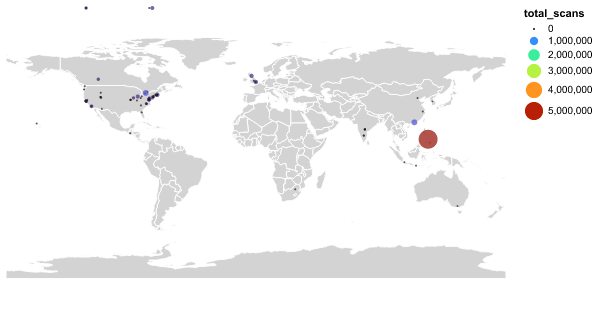
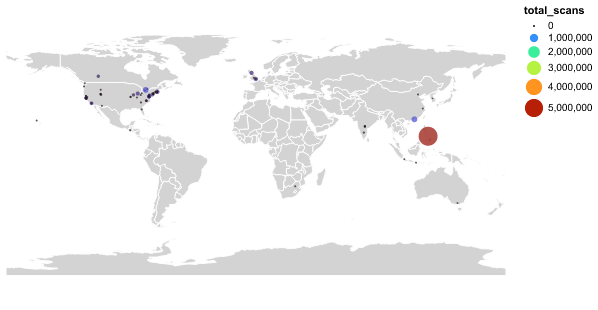
adding image!

diff --git a/debates_in_dh_chapter/chapter_visuals/center_map.html b/debates_in_dh_chapter/chapter_visuals/center_map.html
@@ -20,7 +20,7 @@
   <div id="vis"></div>
   <script>
     (function(vegaEmbed) {
-      var spec = {"config": {"view": {"continuousWidth": 300, "continuousHeight": 300}}, "layer": [{"data": {"url": "https://cdn.jsdelivr.net/npm/vega-datasets@v1.29.0/data/world-110m.json", "format": {"feature": "countries", "type": "topojson"}}, "mark": {"type": "geoshape", "fill": "lightgrey", "stroke": "white"}, "projection": {"type": "equirectangular"}}, {"data": {"name": "data-2dba9612deaa14531c6f77d914588e73"}, "mark": {"type": "circle"}, "encoding": {"color": {"field": "total_scans", "scale": {"scheme": "turbo"}, "type": "quantitative"}, "latitude": {"field": "lat", "type": "quantitative"}, "longitude": {"field": "long", "type": "quantitative"}, "size": {"field": "total_scans", "type": "quantitative"}, "tooltip": [{"field": "name", "type": "nominal"}]}}], "height": 300, "width": 500, "$schema": "https://vega.github.io/schema/vega-lite/v5.20.1.json", "datasets": {"data-2dba9612deaa14531c6f77d914588e73": [{"Unnamed: 0": 0, "name": "1 Dollar Scan", "total_scans": 20, "percent_of_total": "0.0002214984%", "lat": "37.27838889", "long": -121.9492601}, {"Unnamed: 0": 1, "name": "Allen County Public Library Geneaology Center", "total_scans": 214706, "percent_of_total": "2.3778514038%", "lat": "41.0771285", "long": -85.1432003}, {"Unnamed: 0": 2, "name": "American Museum of Natural History", "total_scans": 29, "percent_of_total": "0.0003211726%", "lat": "40.78130431", "long": -73.97404878}, {"Unnamed: 0": 3, "name": "American Numismatic Society", "total_scans": 15554, "percent_of_total": "0.1722592789%", "lat": "38.64984185", "long": -90.32951435}, {"Unnamed: 0": 4, "name": "American Printing House for the Blind", "total_scans": 2326, "percent_of_total": "0.0257602599%", "lat": "38.25759766", "long": -85.71422071}, {"Unnamed: 0": 5, "name": "Analysis and Policy Observatory (APO)", "total_scans": 41, "percent_of_total": "0.0004540716%", "lat": "-37.82242623", "long": 145.0393157}, {"Unnamed: 0": 6, "name": "BYU, Hawaii", "total_scans": 884, "percent_of_total": "0.0097902278%", "lat": "21.64181757", "long": -157.9265819}, {"Unnamed: 0": 7, "name": "BYU, Idaho Family History Library", "total_scans": 1655, "percent_of_total": "0.0183289898%", "lat": "43.81949648", "long": -111.7827966}, {"Unnamed: 0": 8, "name": "BYU, Provo", "total_scans": 40698, "percent_of_total": "0.4507270241%", "lat": "40.24883196", "long": -111.6492385}, {"Unnamed: 0": 9, "name": "BookScanUS", "total_scans": 42, "percent_of_total": "0.0004651466%", "lat": "32.23962014", "long": -110.9556127}, {"Unnamed: 0": 10, "name": "Boston Public Library", "total_scans": 256899, "percent_of_total": "2.8451354307%", "lat": "42.34936189", "long": -71.07819992}, {"Unnamed: 0": 11, "name": "British Library", "total_scans": 230566, "percent_of_total": "2.5534996077%", "lat": "51.53000987", "long": -0.1275571138}, {"Unnamed: 0": 12, "name": "Brown University", "total_scans": 19711, "percent_of_total": "0.2182977142%", "lat": "41.82567677", "long": -71.40513051}, {"Unnamed: 0": 14, "name": "California State Library", "total_scans": 1893, "percent_of_total": "0.0209648203%", "lat": "38.57589327", "long": -121.4962643}, {"Unnamed: 0": 15, "name": "Centre for Strategic and International Studies, Jakarta", "total_scans": 492, "percent_of_total": "0.0054488598%", "lat": "-6.177154589", "long": 106.8164464}, {"Unnamed: 0": 16, "name": "Church History Library", "total_scans": 15954, "percent_of_total": "0.1766892462%", "lat": "40.77200728", "long": -111.8906814}, {"Unnamed: 0": 17, "name": "Clatsop County Historical Society", "total_scans": 2171, "percent_of_total": "0.0240436476%", "lat": "46.1884006", "long": -123.8253618}, {"Unnamed: 0": 18, "name": "Clemson University", "total_scans": 10410, "percent_of_total": "0.1152898993%", "lat": "34.67661443", "long": -82.8364096}, {"Unnamed: 0": 19, "name": "Columbia University", "total_scans": 62910, "percent_of_total": "0.6967231089%", "lat": "40.80657713", "long": -73.96320572}, {"Unnamed: 0": 20, "name": "Datum Data Co. Ltd.", "total_scans": 482936, "percent_of_total": "5.3484767336%", "lat": "22.50635114", "long": 114.0501618}, {"Unnamed: 0": 21, "name": "Duke University", "total_scans": 21850, "percent_of_total": "0.2419869644%", "lat": "36.00294192", "long": -78.93834083}, {"Unnamed: 0": 22, "name": "Family Search Library", "total_scans": 803, "percent_of_total": "0.0088931594%", "lat": "40.77037084", "long": -111.8945972}, {"Unnamed: 0": 23, "name": "Georgetown University", "total_scans": 218, "percent_of_total": "0.0024143322%", "lat": "38.90659981", "long": -77.07223903}, {"Unnamed: 0": 24, "name": "Getty Research Institute", "total_scans": 195, "percent_of_total": "0.0021596091%", "lat": "34.0769306", "long": -118.4754969}, {"Unnamed: 0": 25, "name": "Getty Research Institute Valencia Warehouse", "total_scans": 24347, "percent_of_total": "0.2696410353%", "lat": "34.0769306", "long": -118.4754969}, {"Unnamed: 0": 26, "name": "Hamilton Public Library", "total_scans": 201, "percent_of_total": "0.0022260586%", "lat": "43.25893488", "long": -79.87052526}, {"Unnamed: 0": 27, "name": "Harvard", "total_scans": 944, "percent_of_total": "0.0104547229%", "lat": "42.37357506", "long": -71.11649816}, {"Unnamed: 0": 29, "name": "Hopewell Junction", "total_scans": 24, "percent_of_total": "0.0002657980%", "lat": "41.58494026", "long": -73.8016634}, {"Unnamed: 0": 30, "name": "Innodata Knowledge Services, Inc.", "total_scans": 5440127, "percent_of_total": "60.2489619479%", "lat": "10.31810777", "long": 123.9197947}, {"Unnamed: 0": 31, "name": "International Institute of Information Technology Hyderabad", "total_scans": 8322, "percent_of_total": "0.0921654699%", "lat": "17.44586255", "long": 78.34932817}, {"Unnamed: 0": 32, "name": "Internet Archive Headquarters", "total_scans": 67735, "percent_of_total": "0.7501595896%", "lat": "37.78244229", "long": -122.4717902}, {"Unnamed: 0": 32, "name": "Internet Archive Headquarters", "total_scans": 67735, "percent_of_total": "0.7501595896%", "lat": "37.80039616", "long": -122.4603638}, {"Unnamed: 0": 33, "name": "Internet Archive Sheridan Headquarters", "total_scans": 2423, "percent_of_total": "0.0268345270%", "lat": "39.32907959825482, -76.61937725241745", "long": -122.4603688}, {"Unnamed: 0": 33, "name": "Internet Archive Sheridan Headquarters", "total_scans": 2423, "percent_of_total": "0.0268345270%", "lat": "39.327293162054076, -76.61954979132055", "long": -122.4603688}, {"Unnamed: 0": 34, "name": "Internt Archive Physical Archive", "total_scans": 116251, "percent_of_total": "1.2874703248%", "lat": "37.929402035788144, -122.34590157275528", "long": -122.3459874}, {"Unnamed: 0": 34, "name": "Internt Archive Physical Archive", "total_scans": 116251, "percent_of_total": "1.2874703248%", "lat": "37.92950359", "long": -122.3459874}, {"Unnamed: 0": 35, "name": "John Hopkins University Library Offsite Storage", "total_scans": 4963, "percent_of_total": "0.0549648194%", "lat": "39.206082342965914, -76.94551344309879", "long": -76.89757006}, {"Unnamed: 0": 36, "name": "Library of Congress", "total_scans": 212004, "percent_of_total": "2.3479269746%", "lat": "38.88870235", "long": -77.00481291}, {"Unnamed: 0": 37, "name": "Missouri Botanical Garden", "total_scans": 1, "percent_of_total": "0.0000110749%", "lat": "38.61688951", "long": -90.26274302}, {"Unnamed: 0": 38, "name": "National Agricultural Library", "total_scans": 217119, "percent_of_total": "2.4045751816%", "lat": "39.022774", "long": -76.9217401}, {"Unnamed: 0": 38, "name": "National Agricultural Library", "total_scans": 217119, "percent_of_total": "2.4045751816%", "lat": "55.94870434", "long": -3.191972202}, {"Unnamed: 0": 40, "name": "Natural History Museum Library, London", "total_scans": 10759, "percent_of_total": "0.1191550458%", "lat": "51.49684189", "long": -0.176270642}, {"Unnamed: 0": 41, "name": "New York Botanical Garden", "total_scans": 38, "percent_of_total": "0.0004208469%", "lat": "40.86660468", "long": -73.87875668}, {"Unnamed: 0": 42, "name": "North Carolina State University", "total_scans": 3198, "percent_of_total": "0.0354175887%", "lat": "35.78748428", "long": -78.66939426}, {"Unnamed: 0": 43, "name": "Oberlin College Libraries", "total_scans": 1755, "percent_of_total": "0.0194364816%", "lat": "41.29341848", "long": -82.22281366}, {"Unnamed: 0": 44, "name": "Osmania University", "total_scans": 2522, "percent_of_total": "0.0279309439%", "lat": "17.41717781", "long": 78.52560833}, {"Unnamed: 0": 45, "name": "Peabody Essex Museum", "total_scans": 7, "percent_of_total": "0.0000775244%", "lat": "42.52157514", "long": -70.89222149}, {"Unnamed: 0": 46, "name": "Perkins School for the Blind", "total_scans": 81, "percent_of_total": "0.0008970684%", "lat": "42.3616051", "long": -71.17784952}, {"Unnamed: 0": 47, "name": "Perpustakaan Provinsi Bali", "total_scans": 560, "percent_of_total": "0.0062019542%", "lat": "-8.685606156", "long": 115.2297763}, {"Unnamed: 0": 48, "name": "Press Academy of Andhra Pradesh", "total_scans": 4150, "percent_of_total": "0.0459609109%", "lat": "17.39517291", "long": 78.47138682}, {"Unnamed: 0": 49, "name": "Princeton University", "total_scans": 192458, "percent_of_total": "2.1314566220%", "lat": "40.34956609", "long": -74.65738623}, {"Unnamed: 0": 49, "name": "Princeton University", "total_scans": 192458, "percent_of_total": "2.1314566220%", "lat": "40.34956609014289,", "long": -74.65738623}, {"Unnamed: 0": 50, "name": "Regional Mega Scanning Center by IIT, Hyderbad", "total_scans": 12555, "percent_of_total": "0.1390455990%", "lat": "17.4462589", "long": 78.3484708}, {"Unnamed: 0": 51, "name": "Research Institute of Korean Studies", "total_scans": 7, "percent_of_total": "0.0000775244%", "lat": "37.5928289", "long": 127.0254143}, {"Unnamed: 0": 52, "name": "San Francisco Public Library", "total_scans": 11286, "percent_of_total": "0.1249915277%", "lat": "37.77914204", "long": -122.4157906}, {"Unnamed: 0": 53, "name": "Servants of knowledge", "total_scans": 801, "percent_of_total": "0.0088710095%", "lat": "12.966384", "long": 77.6352956}, {"Unnamed: 0": 54, "name": "Smithsonian Libraries and Archives", "total_scans": 16664, "percent_of_total": "0.1845524382%", "lat": "38.89132735", "long": -77.02586404}, {"Unnamed: 0": 54, "name": "Smithsonian Libraries and Archives", "total_scans": 16664, "percent_of_total": "0.1845524382%", "lat": "38.89126054", "long": -77.02586404}, {"Unnamed: 0": 55, "name": "Stanford University", "total_scans": 39, "percent_of_total": "0.0004319218%", "lat": "37.4239279", "long": -122.1674727}, {"Unnamed: 0": 56, "name": "State Library of Pennsylvania", "total_scans": 22248, "percent_of_total": "0.2463947819%", "lat": "40.2650287", "long": -76.88065236}, {"Unnamed: 0": 57, "name": "Staten Island Museum", "total_scans": 146, "percent_of_total": "0.0016169381%", "lat": "40.64492345", "long": -74.10271703}, {"Unnamed: 0": 58, "name": "The Archive of Contemporary Music", "total_scans": 3020, "percent_of_total": "0.0334462532%", "lat": "40.71867548", "long": -74.00374316}, {"Unnamed: 0": 59, "name": "The Ohio State University", "total_scans": 924, "percent_of_total": "0.0102332245%", "lat": "39.9992057", "long": -83.0158362}, {"Unnamed: 0": 60, "name": "The Servants of Knowledge", "total_scans": 14841, "percent_of_total": "0.1643628622%", "lat": "12.966384", "long": 77.6352956}, {"Unnamed: 0": 61, "name": "Trent University", "total_scans": 2, "percent_of_total": "0.0000221498%", "lat": "44.3571217", "long": -78.2917651}, {"Unnamed: 0": 62, "name": "UCLA", "total_scans": 157748, "percent_of_total": "1.7470462085%", "lat": "34.0714326", "long": -118.4436644}, {"Unnamed: 0": 63, "name": "UIUC", "total_scans": 104372, "percent_of_total": "1.1559113705%", "lat": "40.10440926", "long": -88.22933583}, {"Unnamed: 0": 64, "name": "UNC Chapel Hill", "total_scans": 59079, "percent_of_total": "0.6542950970%", "lat": "35.9107937", "long": -79.0487334}, {"Unnamed: 0": 65, "name": "Universidad Francisco Marroqu\u00edn", "total_scans": 4151, "percent_of_total": "0.0459719858%", "lat": "14.6054948", "long": -90.50534962}, {"Unnamed: 0": 66, "name": "University of Alberta", "total_scans": 121340, "percent_of_total": "1.3438305839%", "lat": "53.5264397", "long": -113.5254331}, {"Unnamed: 0": 67, "name": "University of Chinese Academy of Sciences", "total_scans": 1277, "percent_of_total": "0.0141426706%", "lat": "39.9827212", "long": 116.326045}, {"Unnamed: 0": 68, "name": "University of Connecticut", "total_scans": 262, "percent_of_total": "0.0029016286%", "lat": "41.80696142", "long": -72.25146626}, {"Unnamed: 0": 69, "name": "University of Florida", "total_scans": 8289, "percent_of_total": "0.0917999976%", "lat": "29.6516662", "long": -82.3445709}, {"Unnamed: 0": 70, "name": "University of Maryland, College Park", "total_scans": 2452, "percent_of_total": "0.0271556996%", "lat": "38.9860937", "long": -76.9456868}, {"Unnamed: 0": 71, "name": "University of Pretoria", "total_scans": 2435, "percent_of_total": "0.0269674260%", "lat": "-25.7553205", "long": 28.2295439}, {"Unnamed: 0": 72, "name": "University of Toronto", "total_scans": 465884, "percent_of_total": "5.1596272271%", "lat": "43.6643506", "long": -79.4013436}, {"Unnamed: 0": 73, "name": "University of Victoria", "total_scans": 6843, "percent_of_total": "0.0757856658%", "lat": "48.4633746", "long": -123.3100252}, {"Unnamed: 0": 74, "name": "University of Warwick", "total_scans": 715, "percent_of_total": "0.0079185666%", "lat": "52.3814771", "long": -1.5641673}, {"Unnamed: 0": 75, "name": "Washington University in St. Louis", "total_scans": 18103, "percent_of_total": "0.2004892456%", "lat": "38.6492546", "long": -90.3105607}, {"Unnamed: 0": 76, "name": "Yiddish Book Center", "total_scans": 1242, "percent_of_total": "0.0137550485%", "lat": "42.32188825", "long": -72.52766762}, {"Unnamed: 0": 77, "name": "Zhejiang University", "total_scans": 1, "percent_of_total": "0.0000110749%", "lat": "30.2628344", "long": 120.1190128}]}};
+      var spec = {"config": {"view": {"continuousWidth": 300, "continuousHeight": 300}}, "layer": [{"data": {"url": "https://cdn.jsdelivr.net/npm/vega-datasets@v1.29.0/data/world-110m.json", "format": {"feature": "countries", "type": "topojson"}}, "mark": {"type": "geoshape", "fill": "lightgrey", "stroke": "white"}, "projection": {"type": "equirectangular"}}, {"data": {"name": "data-2eb7f77f1931ae307a468df8d43fc75b"}, "mark": {"type": "circle"}, "encoding": {"color": {"field": "total_scans", "scale": {"scheme": "turbo"}, "type": "quantitative"}, "latitude": {"field": "lat", "type": "quantitative"}, "longitude": {"field": "long", "type": "quantitative"}, "size": {"field": "total_scans", "type": "quantitative"}, "tooltip": [{"field": "name", "type": "nominal"}]}}], "height": 300, "width": 500, "$schema": "https://vega.github.io/schema/vega-lite/v5.20.1.json", "datasets": {"data-2eb7f77f1931ae307a468df8d43fc75b": [{"Unnamed: 0": 0, "name": "1 Dollar Scan", "total_scans": 20, "percent_of_total": "0.0002214984%", "lat": 37.27838889, "long": -121.9492601}, {"Unnamed: 0": 1, "name": "Allen County Public Library Geneaology Center", "total_scans": 214706, "percent_of_total": "2.3778514038%", "lat": 41.0771285, "long": -85.1432003}, {"Unnamed: 0": 2, "name": "American Museum of Natural History", "total_scans": 29, "percent_of_total": "0.0003211726%", "lat": 40.78130431, "long": -73.97404878}, {"Unnamed: 0": 4, "name": "American Printing House for the Blind", "total_scans": 2326, "percent_of_total": "0.0257602599%", "lat": 38.25759766, "long": -85.71422071}, {"Unnamed: 0": 5, "name": "Analysis and Policy Observatory (APO)", "total_scans": 41, "percent_of_total": "0.0004540716%", "lat": -37.82242623, "long": 145.0393157}, {"Unnamed: 0": 6, "name": "BYU, Hawaii", "total_scans": 884, "percent_of_total": "0.0097902278%", "lat": 21.64181757, "long": -157.9265819}, {"Unnamed: 0": 7, "name": "BYU, Idaho Family History Library", "total_scans": 1655, "percent_of_total": "0.0183289898%", "lat": 43.81949648, "long": -111.7827966}, {"Unnamed: 0": 8, "name": "BYU, Provo", "total_scans": 40698, "percent_of_total": "0.4507270241%", "lat": 40.24883196, "long": -111.6492385}, {"Unnamed: 0": 9, "name": "BookScanUS", "total_scans": 42, "percent_of_total": "0.0004651466%", "lat": 32.23962014, "long": -110.9556127}, {"Unnamed: 0": 10, "name": "Boston Public Library", "total_scans": 256899, "percent_of_total": "2.8451354307%", "lat": 42.34936189, "long": -71.07819992}, {"Unnamed: 0": 11, "name": "British Library", "total_scans": 230566, "percent_of_total": "2.5534996077%", "lat": 51.53000987, "long": -0.1275571138}, {"Unnamed: 0": 12, "name": "Brown University", "total_scans": 19711, "percent_of_total": "0.2182977142%", "lat": 41.82567677, "long": -71.40513051}, {"Unnamed: 0": 14, "name": "California State Library", "total_scans": 1893, "percent_of_total": "0.0209648203%", "lat": 38.57589327, "long": -121.4962643}, {"Unnamed: 0": 15, "name": "Centre for Strategic and International Studies, Jakarta", "total_scans": 492, "percent_of_total": "0.0054488598%", "lat": -6.177154589, "long": 106.8164464}, {"Unnamed: 0": 16, "name": "Church History Library", "total_scans": 15954, "percent_of_total": "0.1766892462%", "lat": 40.77200728, "long": -111.8906814}, {"Unnamed: 0": 17, "name": "Clatsop County Historical Society", "total_scans": 2171, "percent_of_total": "0.0240436476%", "lat": 46.1884006, "long": -123.8253618}, {"Unnamed: 0": 18, "name": "Clemson University", "total_scans": 10410, "percent_of_total": "0.1152898993%", "lat": 34.67661443, "long": -82.8364096}, {"Unnamed: 0": 19, "name": "Columbia University", "total_scans": 62910, "percent_of_total": "0.6967231089%", "lat": 40.80657713, "long": -73.96320572}, {"Unnamed: 0": 20, "name": "Datum Data Co. Ltd.", "total_scans": 482936, "percent_of_total": "5.3484767336%", "lat": 22.50635114, "long": 114.0501618}, {"Unnamed: 0": 21, "name": "Duke University", "total_scans": 21850, "percent_of_total": "0.2419869644%", "lat": 36.00294192, "long": -78.93834083}, {"Unnamed: 0": 22, "name": "Family Search Library", "total_scans": 803, "percent_of_total": "0.0088931594%", "lat": 40.77037084, "long": -111.8945972}, {"Unnamed: 0": 23, "name": "Georgetown University", "total_scans": 218, "percent_of_total": "0.0024143322%", "lat": 38.90659981, "long": -77.07223903}, {"Unnamed: 0": 24, "name": "Getty Research Institute", "total_scans": 195, "percent_of_total": "0.0021596091%", "lat": 34.0769306, "long": -118.4754969}, {"Unnamed: 0": 25, "name": "Getty Research Institute Valencia Warehouse", "total_scans": 24347, "percent_of_total": "0.2696410353%", "lat": 34.0769306, "long": -118.4754969}, {"Unnamed: 0": 26, "name": "Hamilton Public Library", "total_scans": 201, "percent_of_total": "0.0022260586%", "lat": 43.25893488, "long": -79.87052526}, {"Unnamed: 0": 27, "name": "Harvard", "total_scans": 944, "percent_of_total": "0.0104547229%", "lat": 42.37357506, "long": -71.11649816}, {"Unnamed: 0": 29, "name": "Hopewell Junction", "total_scans": 24, "percent_of_total": "0.0002657980%", "lat": 41.58494026, "long": -73.8016634}, {"Unnamed: 0": 30, "name": "Innodata Knowledge Services, Inc.", "total_scans": 5440127, "percent_of_total": "60.2489619479%", "lat": 10.31810777, "long": 123.9197947}, {"Unnamed: 0": 31, "name": "International Institute of Information Technology Hyderabad", "total_scans": 8322, "percent_of_total": "0.0921654699%", "lat": 17.44586255, "long": 78.34932817}, {"Unnamed: 0": 32, "name": "Internet Archive Headquarters", "total_scans": 67735, "percent_of_total": "0.7501595896%", "lat": 37.78244229, "long": -122.4717902}, {"Unnamed: 0": 32, "name": "Internet Archive Headquarters", "total_scans": 67735, "percent_of_total": "0.7501595896%", "lat": 37.80039616, "long": -122.4603638}, {"Unnamed: 0": 33, "name": "Internet Archive Sheridan Headquarters", "total_scans": 2423, "percent_of_total": "0.0268345270%", "lat": 39.3290796, "long": -122.4603688}, {"Unnamed: 0": 33, "name": "Internet Archive Sheridan Headquarters", "total_scans": 2423, "percent_of_total": "0.0268345270%", "lat": 39.32729316, "long": -122.4603688}, {"Unnamed: 0": 34, "name": "Internt Archive Physical Archive", "total_scans": 116251, "percent_of_total": "1.2874703248%", "lat": 37.92940204, "long": -122.3459016}, {"Unnamed: 0": 35, "name": "John Hopkins University Library Offsite Storage", "total_scans": 4963, "percent_of_total": "0.0549648194%", "lat": 39.20608234, "long": -76.94551344}, {"Unnamed: 0": 36, "name": "Library of Congress", "total_scans": 212004, "percent_of_total": "2.3479269746%", "lat": 38.88870235, "long": -77.00481291}, {"Unnamed: 0": 37, "name": "Missouri Botanical Garden", "total_scans": 1, "percent_of_total": "0.0000110749%", "lat": 38.61688951, "long": -90.26274302}, {"Unnamed: 0": 38, "name": "National Agricultural Library", "total_scans": 217119, "percent_of_total": "2.4045751816%", "lat": 39.022774, "long": -76.9217401}, {"Unnamed: 0": 38, "name": "National Agricultural Library", "total_scans": 217119, "percent_of_total": "2.4045751816%", "lat": 55.94870434, "long": -3.191972202}, {"Unnamed: 0": 40, "name": "Natural History Museum Library, London", "total_scans": 10759, "percent_of_total": "0.1191550458%", "lat": 51.49684189, "long": -0.176270642}, {"Unnamed: 0": 41, "name": "New York Botanical Garden", "total_scans": 38, "percent_of_total": "0.0004208469%", "lat": 40.86660468, "long": -73.87875668}, {"Unnamed: 0": 42, "name": "North Carolina State University", "total_scans": 3198, "percent_of_total": "0.0354175887%", "lat": 35.78748428, "long": -78.66939426}, {"Unnamed: 0": 43, "name": "Oberlin College Libraries", "total_scans": 1755, "percent_of_total": "0.0194364816%", "lat": 41.29341848, "long": -82.22281366}, {"Unnamed: 0": 44, "name": "Osmania University", "total_scans": 2522, "percent_of_total": "0.0279309439%", "lat": 17.41717781, "long": 78.52560833}, {"Unnamed: 0": 45, "name": "Peabody Essex Museum", "total_scans": 7, "percent_of_total": "0.0000775244%", "lat": 42.52157514, "long": -70.89222149}, {"Unnamed: 0": 46, "name": "Perkins School for the Blind", "total_scans": 81, "percent_of_total": "0.0008970684%", "lat": 42.3616051, "long": -71.17784952}, {"Unnamed: 0": 47, "name": "Perpustakaan Provinsi Bali", "total_scans": 560, "percent_of_total": "0.0062019542%", "lat": -8.685606156, "long": 115.2297763}, {"Unnamed: 0": 48, "name": "Press Academy of Andhra Pradesh", "total_scans": 4150, "percent_of_total": "0.0459609109%", "lat": 17.39517291, "long": 78.47138682}, {"Unnamed: 0": 49, "name": "Princeton University", "total_scans": 192458, "percent_of_total": "2.1314566220%", "lat": 40.34956609, "long": -74.65738623}, {"Unnamed: 0": 50, "name": "Regional Mega Scanning Center by IIT, Hyderbad", "total_scans": 12555, "percent_of_total": "0.1390455990%", "lat": 17.4462589, "long": 78.3484708}, {"Unnamed: 0": 51, "name": "Research Institute of Korean Studies", "total_scans": 7, "percent_of_total": "0.0000775244%", "lat": 37.5928363, "long": 127.0264268}, {"Unnamed: 0": 52, "name": "San Francisco Public Library", "total_scans": 11286, "percent_of_total": "0.1249915277%", "lat": 37.77914204, "long": -122.4157906}, {"Unnamed: 0": 54, "name": "Smithsonian Libraries and Archives", "total_scans": 16664, "percent_of_total": "0.1845524382%", "lat": 38.89132735, "long": -77.02586404}, {"Unnamed: 0": 54, "name": "Smithsonian Libraries and Archives", "total_scans": 16664, "percent_of_total": "0.1845524382%", "lat": 38.89126054, "long": -77.02586404}, {"Unnamed: 0": 55, "name": "Stanford University", "total_scans": 39, "percent_of_total": "0.0004319218%", "lat": 37.4239279, "long": -122.1674727}, {"Unnamed: 0": 56, "name": "State Library of Pennsylvania", "total_scans": 22248, "percent_of_total": "0.2463947819%", "lat": 40.2650287, "long": -76.88065236}, {"Unnamed: 0": 57, "name": "Staten Island Museum", "total_scans": 146, "percent_of_total": "0.0016169381%", "lat": 40.64455096, "long": -74.10269554}, {"Unnamed: 0": 58, "name": "The Archive of Contemporary Music", "total_scans": 3020, "percent_of_total": "0.0334462532%", "lat": 40.71867548, "long": -74.00374316}, {"Unnamed: 0": 59, "name": "The Ohio State University", "total_scans": 924, "percent_of_total": "0.0102332245%", "lat": 39.99926893, "long": -83.01493372}, {"Unnamed: 0": 60, "name": "The Servants of Knowledge", "total_scans": 14841, "percent_of_total": "0.1643628622%", "lat": 12.966384, "long": 77.6352956}, {"Unnamed: 0": 61, "name": "Trent University", "total_scans": 2, "percent_of_total": "0.0000221498%", "lat": 44.35722473, "long": -78.29034148}, {"Unnamed: 0": 62, "name": "UCLA", "total_scans": 157748, "percent_of_total": "1.7470462085%", "lat": 34.07168305, "long": -118.442185}, {"Unnamed: 0": 63, "name": "UIUC", "total_scans": 104372, "percent_of_total": "1.1559113705%", "lat": 40.10440926, "long": -88.22933583}, {"Unnamed: 0": 64, "name": "UNC Chapel Hill", "total_scans": 59079, "percent_of_total": "0.6542950970%", "lat": 35.91097779, "long": -79.0487334}, {"Unnamed: 0": 65, "name": "Universidad Francisco Marroqu\u00edn", "total_scans": 4151, "percent_of_total": "0.0459719858%", "lat": 14.6054948, "long": -90.50534962}, {"Unnamed: 0": 66, "name": "University of Alberta", "total_scans": 121340, "percent_of_total": "1.3438305839%", "lat": 53.5264397, "long": -113.5254331}, {"Unnamed: 0": 67, "name": "University of Chinese Academy of Sciences", "total_scans": 1277, "percent_of_total": "0.0141426706%", "lat": 40.40814427, "long": 116.6823424}, {"Unnamed: 0": 68, "name": "University of Connecticut", "total_scans": 262, "percent_of_total": "0.0029016286%", "lat": 41.80696142, "long": -72.25146626}, {"Unnamed: 0": 69, "name": "University of Florida", "total_scans": 8289, "percent_of_total": "0.0917999976%", "lat": 29.6516662, "long": -82.3445709}, {"Unnamed: 0": 70, "name": "University of Maryland, College Park", "total_scans": 2452, "percent_of_total": "0.0271556996%", "lat": 38.9860937, "long": -76.9456868}, {"Unnamed: 0": 71, "name": "University of Pretoria", "total_scans": 2435, "percent_of_total": "0.0269674260%", "lat": -25.7553205, "long": 28.2295439}, {"Unnamed: 0": 72, "name": "University of Toronto", "total_scans": 465884, "percent_of_total": "5.1596272271%", "lat": 43.66441368, "long": -79.39947221}, {"Unnamed: 0": 73, "name": "University of Victoria", "total_scans": 6843, "percent_of_total": "0.0757856658%", "lat": 48.4633746, "long": -123.3100252}, {"Unnamed: 0": 74, "name": "University of Warwick", "total_scans": 715, "percent_of_total": "0.0079185666%", "lat": 52.38161719, "long": -1.561841996}, {"Unnamed: 0": 75, "name": "Washington University in St. Louis", "total_scans": 18103, "percent_of_total": "0.2004892456%", "lat": 38.649678, "long": -90.32848246}, {"Unnamed: 0": 76, "name": "Yiddish Book Center", "total_scans": 1242, "percent_of_total": "0.0137550485%", "lat": 42.32188825, "long": -72.52766762}, {"Unnamed: 0": 77, "name": "Zhejiang University", "total_scans": 1, "percent_of_total": "0.0000110749%", "lat": 30.2628344, "long": 120.1190128}]}};
       var embedOpt = {"mode": "vega-lite"};
 
       function showError(el, error){
